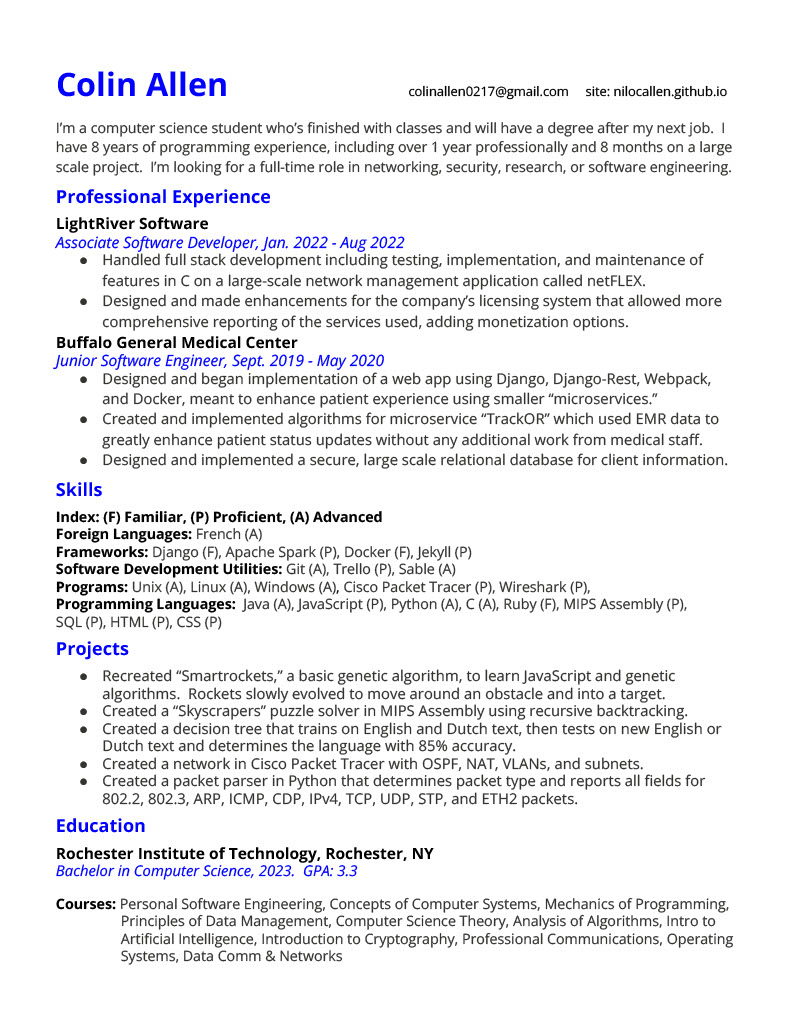
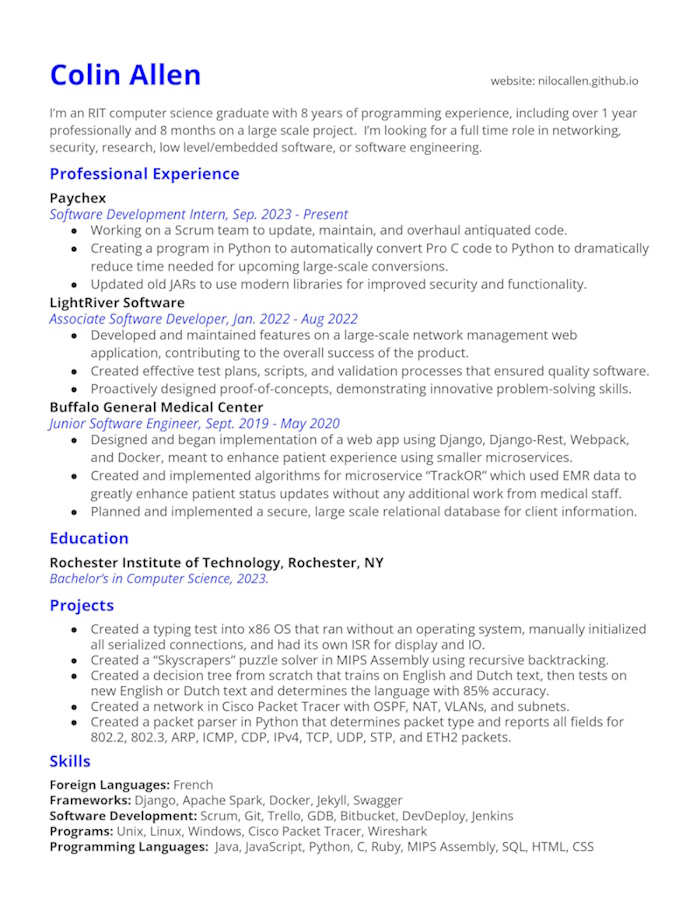
Updated 11/29

Changed region(s): [[0.06, 0.0618, 0.93, 0.9581]]

diff --git a/_includes/education-section.html b/_includes/education-section.html
@@ -15,7 +15,6 @@
           <div>
             <p class="text-dark mb-1">{{ education.date }}</p>
             <h4>{{ education.name }}</h4>
-            <p class="mb-0 text-light">{{ education.gpa }} GPA</p>
             <p class="mb-0 text-light">{{ education.organization }}</p>
           </div>
         </div>

diff --git a/_pages/resume.html b/_pages/resume.html
@@ -4,7 +4,7 @@ title: Resume
 ---
 
 <div style="text-align: center;">
-  <img src="/assets/images/resume.jpg" alt="My Resume, as of 5/24/23">
+  <img src="/assets/images/resume.jpg" alt="My Resume, as of 11/29/23">
 </div>
 <br>
 

diff --git a/_includes/skills-section.html b/_includes/skills-section.html
@@ -20,6 +20,8 @@
       {% endfor %}
     </div>
   </div>
+  <h5 style="text-align: center">...any many more!</h4>
 </section>
+
 <!-- /skills -->
 {% endif %}

diff --git a/_pages/about.md b/_pages/about.md
@@ -5,8 +5,8 @@ author: Colin Allen
 image: assets/images/about/treeme1.jpg
 signature: assets/images/about/signature.png
 ---
-Hey there!  I'm a computer scientist who finished school at RIT with a 3.3 GPA, <br>seeking any full-time 
-remote or NYC stationed role that is related to computer science or <br>software engineering and starting this summer.  Once I get one more job in the industry, I'll have my bachelor's in computer science! 
+Hey there!  I'm a computer science grad from RIT seeking a full-time, preferably remote <br>or NYC stationed
+role in computer science research, networking, cyber security, low-level/embedded systems, or software engineering. 
 
 Although I'm open minded in which roles I'm seeking, I do have a few special interests that I would love to 
 professionally explore.  Firstly, I love tying software to hardware.  This interest first blossomed in 
@@ -19,7 +19,5 @@ network management software and a course at RIT on networking and data communica
 creating and defending resilient and secure networks and would love to try my hand as a network engineer or
 cyber security agent. 
 
-I also love to be creative, and I do so these days by drumming for a band called Cellar Darts.  Our first
-single is coming out soon!  This is what I've been pursuing in the time from my last classes until now.  
-I've improved greatly and formed memories I'll always hold at our first concert on 4/01/23, but now I'm
+I also love to be creative, and I do so these days by drumming for a band called Cellar Darts.  Our <a href="https://open.spotify.com/track/3by7mJaH793EiHkIzPijz4?si=1e1a98d8d0ba4da3" target="_blank">first single</a> is out now!  This is what I've been pursuing in the time from my last classes until now.  I've improved greatly and formed memories I'll always hold at our first concert on 4/01/23, but now I'm
 ready to juggle both my musical passion and my career interests.  

diff --git a/_posts/2023-11-29-update.md b/_posts/2023-11-29-update.md
@@ -1,0 +1,21 @@
+---
+layout: post
+title:  Update
+date:   2023-11-29 11:04:55 +0300
+image:  /assets/images/blog/post-2.jpg
+author: Colin Allen
+tags:   Work and Life
+---
+
+**My degree is here!**
+
+I am happy to say that I will be finished with my degree in a short 2 weeks!  I am currently working for Paychex as
+an intern, and it's the last requirement before I can graduate.  So, it's time to start my career!
+
+I'll be looking for a full time, preferably remote job in networking, low level/embedded systems, cyber security,
+or software engineering.  Moving would be difficult, but it might be time to start making the difficult steps in 
+this pivotal part of my career.  
+
+Also, I got two cats with my girlfriend!  Pheobe and Harper.  
+
+Goodbye for now!
